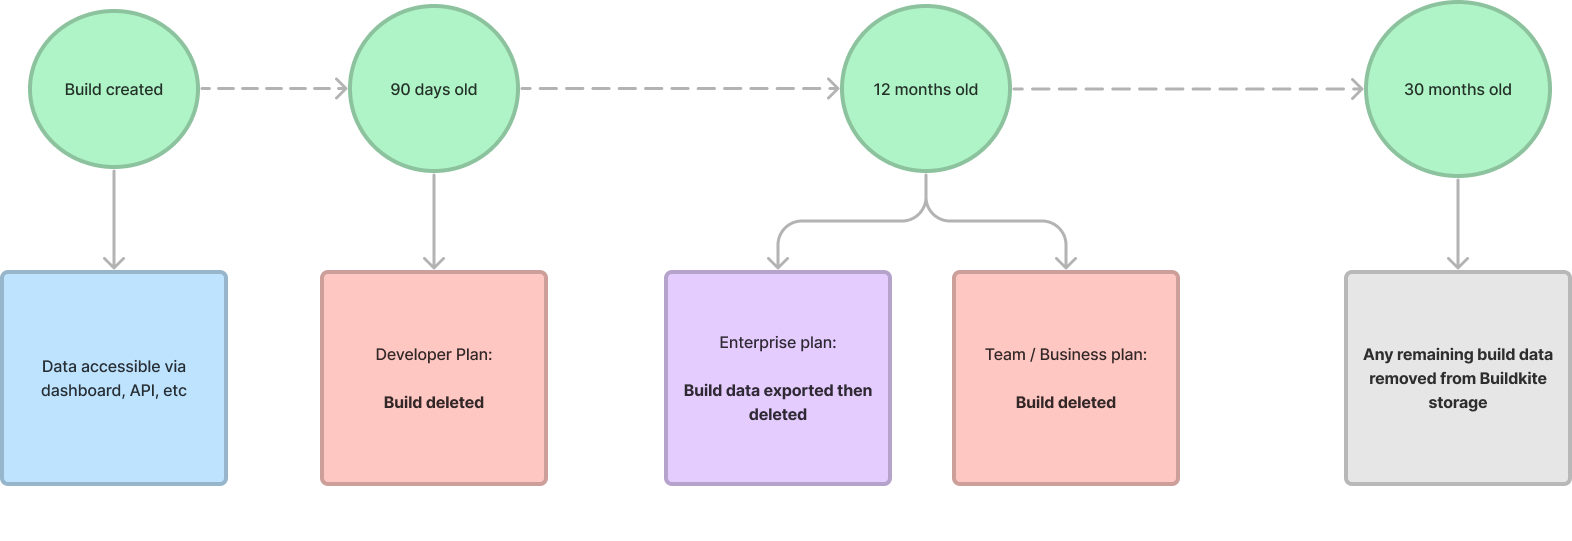
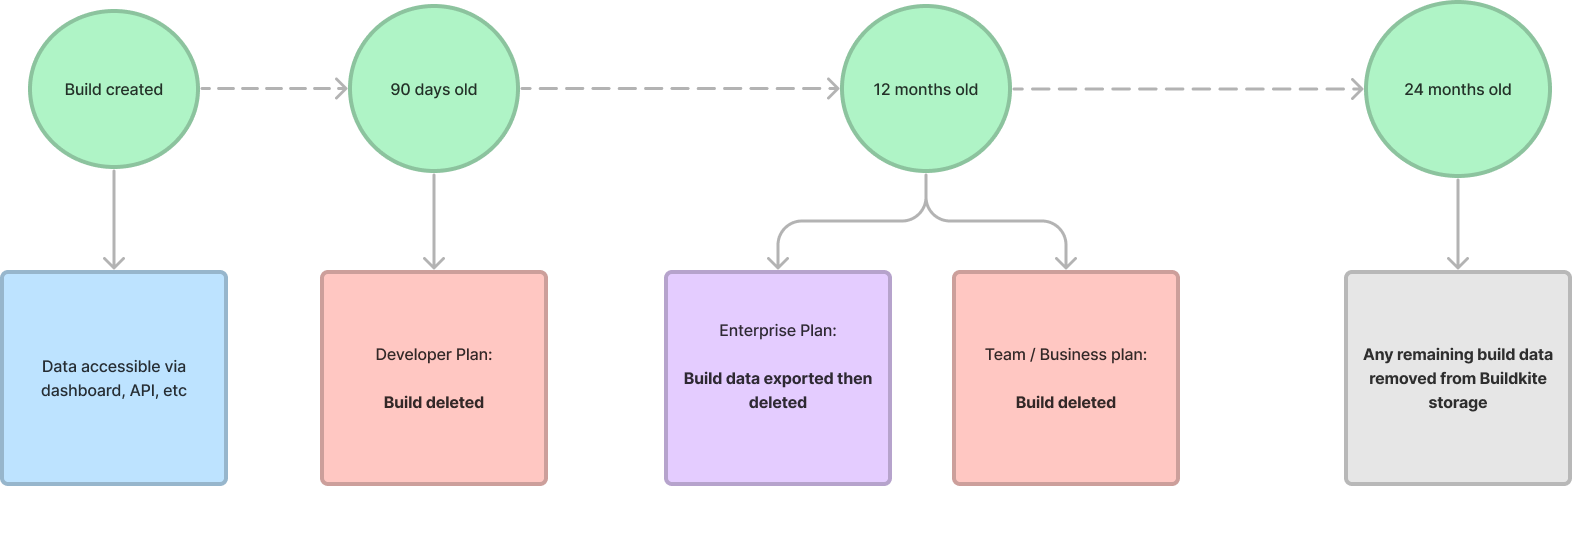
updating flow diagram on build retention page to say we only store in our own bucket for 12 months. Updated build exports page to also say 12 months (rather than 18)

Changed region(s): [[0.4364, 0.6802, 0.5611, 0.7985], [0.4364, 0.5915, 0.5299, 0.6506], [0.8728, 0.1479, 0.9663, 0.1774]]

diff --git a/pages/pipelines/build_exports.md b/pages/pipelines/build_exports.md
@@ -5,11 +5,11 @@
 
 If you need to retain build data beyond the [retention period](/docs/pipelines/build-retention) in your [Buildkite plan](https://buildkite.com/pricing), you can export the data to your own [Amazon S3 bucket](https://aws.amazon.com/s3/).
 
-If you don't configure an S3 bucket, Buildkite stores the build data for 18 months in case you need it. You cannot access this build data through the API or Buildkite dashboard, but you can request the data by contacting support.
+If you don't configure an S3 bucket, Buildkite stores the build data for 12 months in case you need it. You cannot access this build data through the API or Buildkite dashboard, but you can request the data by contacting support.
 
 ## How it works
 
-Builds older than the build retention limit are automatically exported as JSON to the S3 bucket you have configured. If you haven't configured a bucket for build export, Buildkite stores that build data as JSON in our own S3 bucket for a further 18 months in case you need it. The following diagram outlines this process.
+Builds older than the build retention limit are automatically exported as JSON to the S3 bucket you have configured. If you haven't configured a bucket for build export, Buildkite stores that build data as JSON in our own S3 bucket for a further 12 months in case you need it. The following diagram outlines this process.
 
 <%= image "build-exports-flow-chart.png", alt: "Simplified flow chart of the build exports process" %>
 
